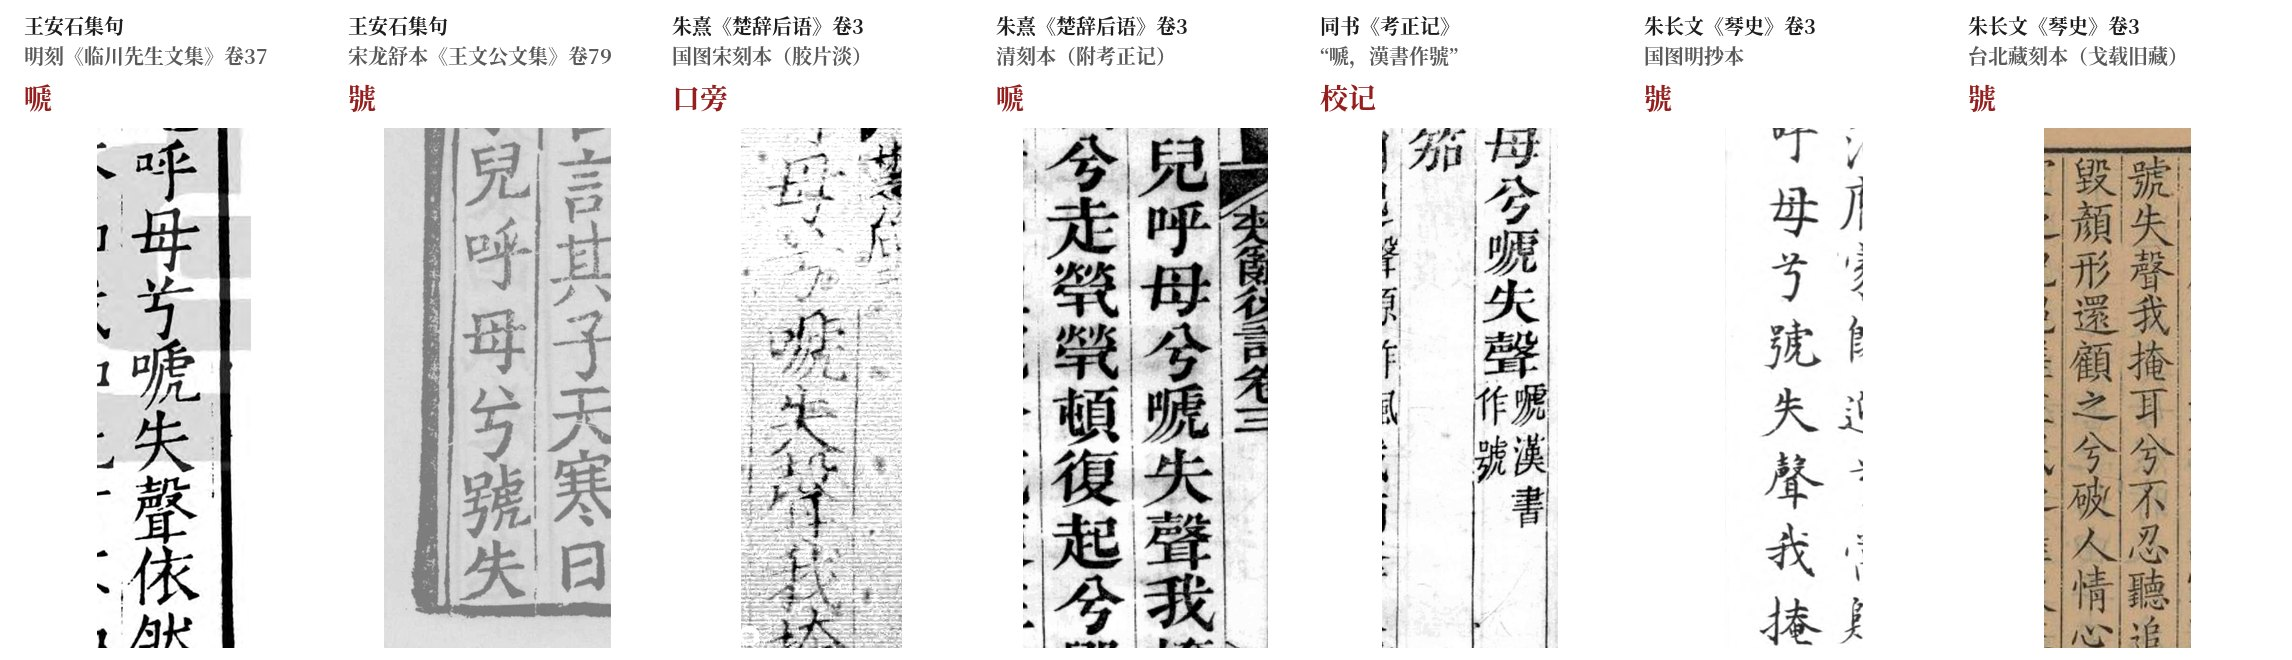
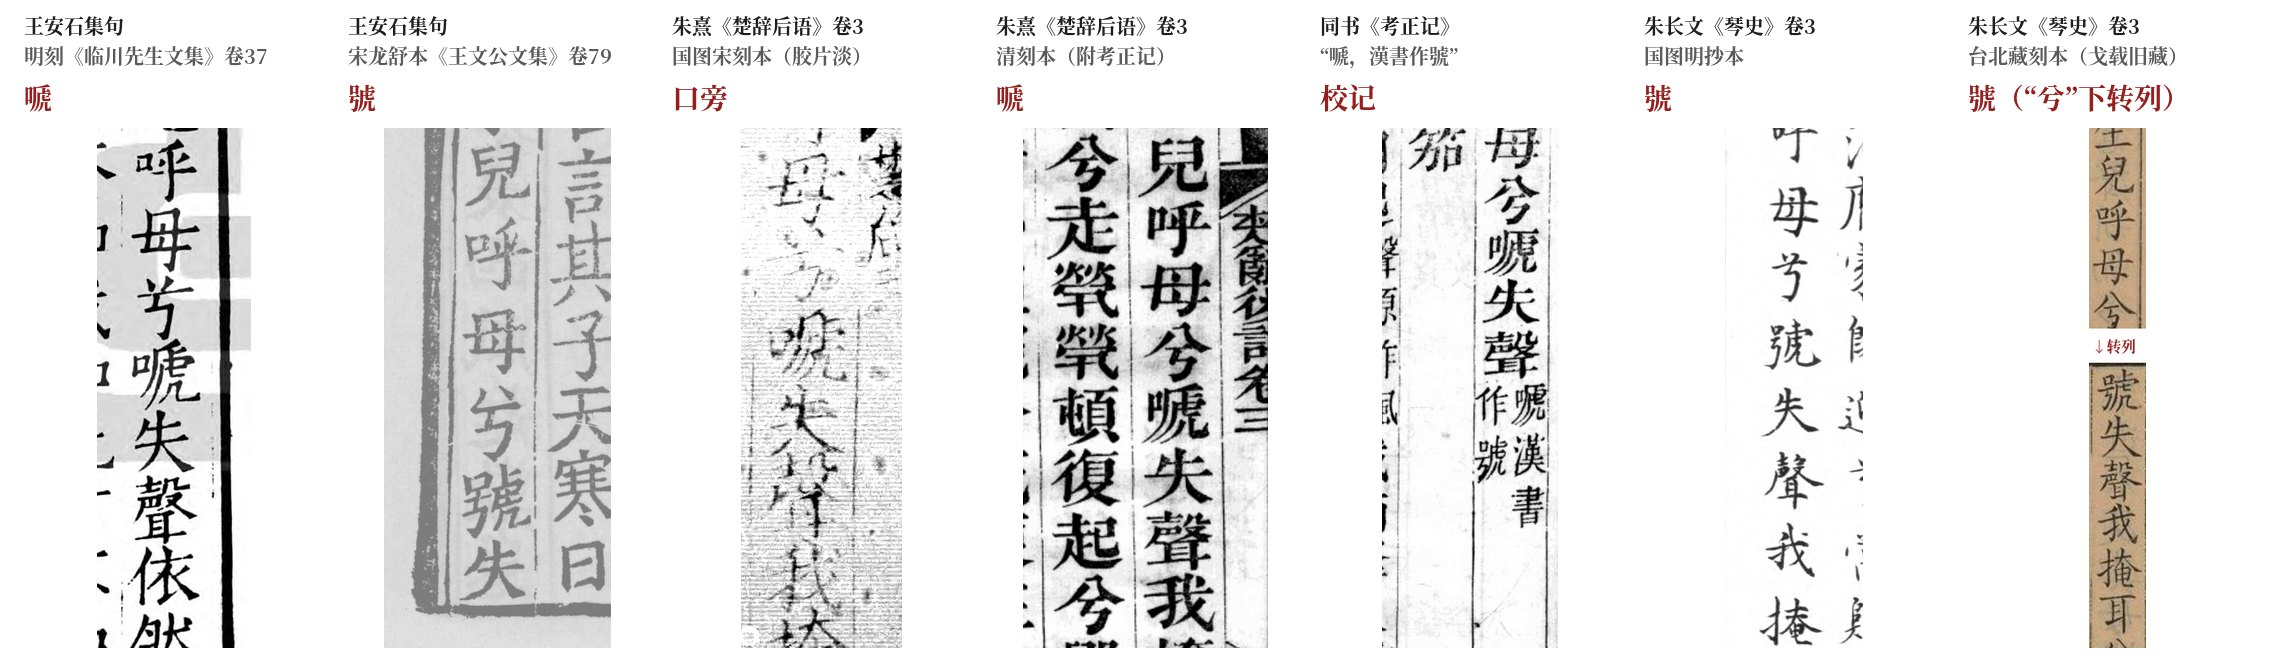
悲愤诗汇校：台北藏《琴史》补一张带上下文的原样图（此句跨列），七格图末格改为接列
Claude-Session: https://claude.ai/code/session_01AJ9M8bfF9axNeU9L3WjgGk

Changed region(s): [[0.8674, 0.1212, 0.9603, 1.0]]

diff --git a/symbiosis/悲愤诗汇校/README.md b/symbiosis/悲愤诗汇校/README.md
@@ -87,6 +87,10 @@
 | 朱长文（1039—1098） | 《琴史》卷三蔡琰条录《悲愤诗》全文 | 国图藏明抄本（Commons `NLC892-411999013134-121875` 第 1 册，PDF 第 56 页） | **號** |
 | 同上 | 同上 | 台北“国家图书馆”藏刻本（`NCL-06793`，十一行二十字，戈载旧藏，PDF 第 54 页） | **號** |
 
+台北藏《琴史》这一句正好跨列：右列末四字“兒呼母兮”，转到左列第一字“號”（七格图最后一格是把两段接起来的）。原样见下：
+
+![琴史台北藏本](images/琴史_台北藏本_號.jpg)
+
 另外：
 - 李壁《王荆文公诗笺注》五十卷只收古诗、律诗、挽词，不收集句，这一句下没有李壁注（四库本全文检索“胡笳”只在律诗卷里零星出现；影印翻了第 6、8 两册即卷三十二至三十八、四十五至五十，没有集句）。
 - 《琴史》没有找到宋刻；上面两本都晚。
